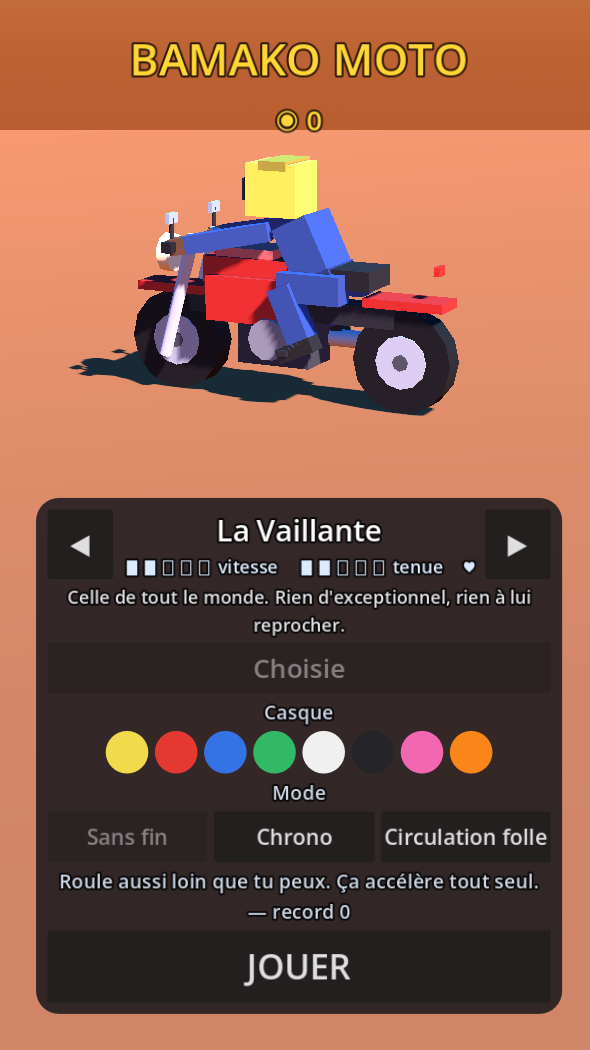
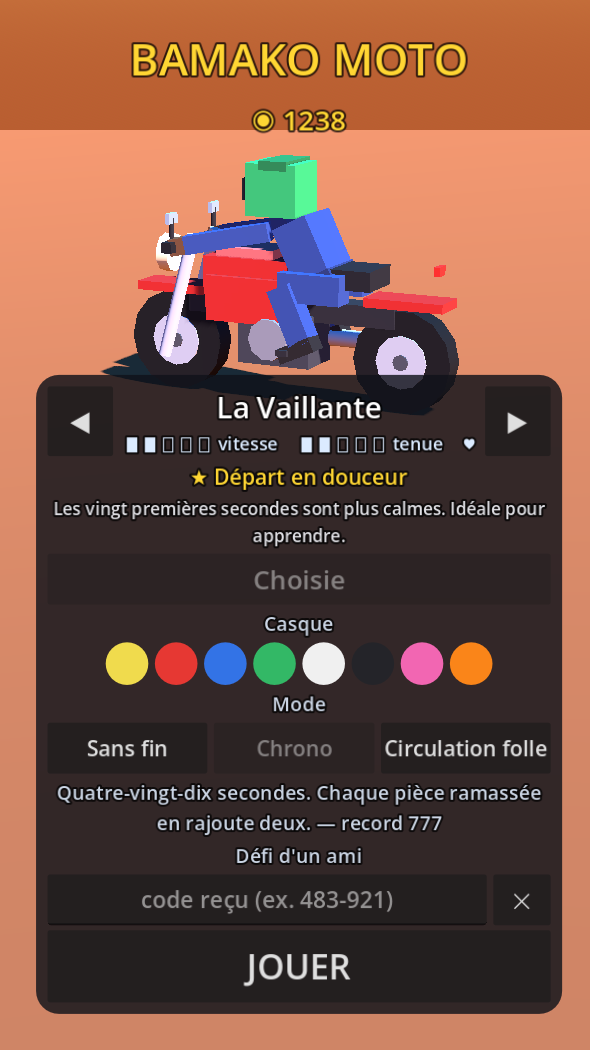
Chaque moto fait quelque chose que les autres ne font pas
Cinq motos qui ne differaient que par des chiffres, ce sont cinq fois la
meme moto. Chacune a maintenant un pouvoir :

La Vaillante demarre en douceur et rattrape en vingt secondes — la moto de
celui qui apprend. La Souple a une boite de collision deux fois plus fine :
elle passe la ou les autres accrochent, et ca se joue vraiment. La Rapide
compte les frolements double, donc son combo grimpe deux fois plus vite. La
Cuirassee encaisse un choc. La Doree attire les pieces dans trois metres.

Et le defi par code, qui est ce qu'aucun autre n'offre ici.

Apres une partie, le jeu donne un code a six chiffres. On l'envoie sur
WhatsApp ; celui qui le tape joue exactement la meme route — memes
vehicules, memes voies, memes pieces, dans le meme ordre. Les deux scores
se comparent directement.

Aucun serveur. Le code EST la partie : il sert de graine au generateur,
posee avant le premier tirage au sort. C'est du multijoueur asynchrone qui
ne coute rien a heberger et qui passe par le canal que les gens utilisent
deja.

Changed region(s): [[0.061, 0.0914, 0.9763, 0.8838], [0.7017, 0.2743, 0.7322, 0.3048]]

diff --git a/README.md b/README.md
@@ -111,13 +111,30 @@ de la boutique.
 
 ### Les motos
 
-| | Prix | Ce qu'elle vaut |
+Chacune a un **pouvoir** que les autres n'ont pas. Des statistiques
+différentes ne sont que des chiffres ; deux motos ne se jouent
+différemment que si elles permettent des choses différentes.
+
+| | Prix | Pouvoir |
 |---|---|---|
-| La Vaillante | gratuite | équilibrée, celle du départ |
-| La Souple | 120 | tourne très bien, un peu lente |
-| La Rapide | 260 | va vite, tourne mal |
-| La Cuirassée | 420 | encaisse un choc |
-| La Dorée | 900 | rapide, maniable, encaisse |
+| La Vaillante | gratuite | **Départ en douceur** — les vingt premières secondes sont plus calmes |
+| La Souple | 120 | **Se faufile** — deux fois plus fine, elle passe entre deux véhicules |
+| La Rapide | 260 | **Sang-froid** — les frôlements comptent double |
+| La Cuirassée | 420 | **Blindée** — encaisse un choc et repart |
+| La Dorée | 900 | **Aimant à pièces** — les pièces viennent à elle dans trois mètres |
+
+## Le défi par code
+
+Après une partie, le jeu donne un code à six chiffres. Envoie-le sur
+WhatsApp : celui qui le tape joue **exactement la même route** — mêmes
+véhicules, mêmes voies, mêmes pièces, dans le même ordre. Les deux scores
+se comparent directement.
+
+Il n'y a **aucun serveur**. Le code *est* la partie : il sert de graine au
+générateur, posée avant le premier tirage au sort. Deux appareils qui
+partent de la même graine produisent la même suite. C'est du multijoueur
+asynchrone qui ne coûte rien à héberger et qui passe par le canal que les
+gens utilisent déjà.
 
 ### Les modes
 
